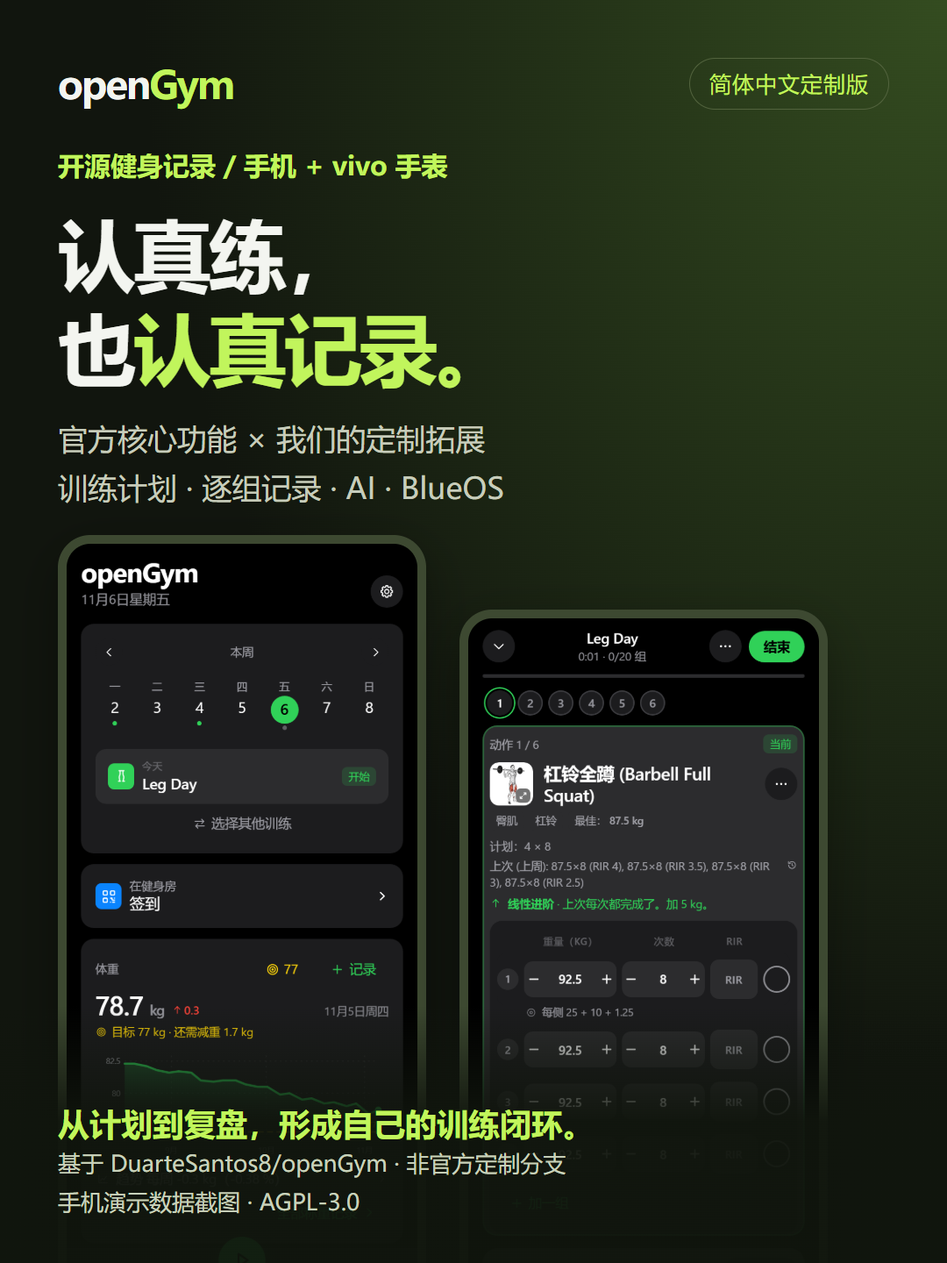
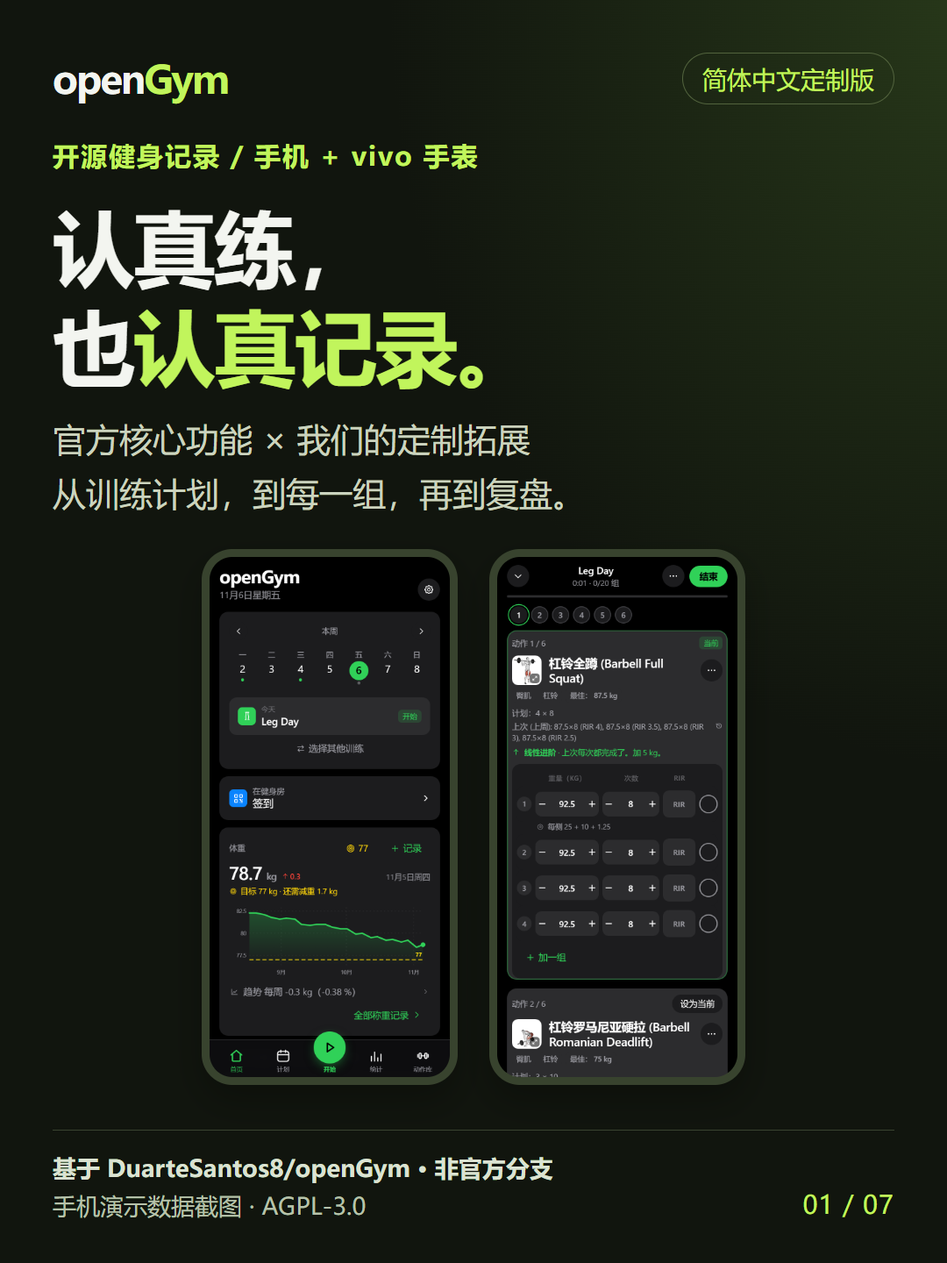
docs: replace long posters with seven mobile-readable short cards [skip ci]

Changed region(s): [[0.0611, 0.0312, 0.8861, 0.9688], [0.7333, 0.0312, 0.9167, 0.0938], [0.8556, 0.9375, 0.9472, 0.9688]]

diff --git a/docs/showcase/index.html b/docs/showcase/index.html
@@ -1,85 +1,118 @@
 <!doctype html>
 <html lang="zh-CN">
 <head>
-<meta charset="utf-8">
-<meta name="viewport" content="width=device-width, initial-scale=1">
-<title>openGym · 官方核心功能与我们的定制拓展</title>
+<meta charset="utf-8"><meta name="viewport" content="width=device-width, initial-scale=1">
+<title>openGym · 七张手机阅读短图</title>
 <style>
-*{box-sizing:border-box} :root{color-scheme:dark;--lime:#c1f55c;--ink:#f3f5f0;--muted:#b1b8ab;--line:#32382b;--base:#11150e}
-html,body{margin:0;background:#080b07;color:var(--ink);font-family:"Microsoft YaHei","PingFang SC","Noto Sans CJK SC",sans-serif}body{overflow-x:hidden}button,a{-webkit-tap-highlight-color:transparent}
-.canvas{width:1080px;margin:auto;background:var(--base)}.panel{height:2640px;padding:64px;position:relative;overflow:hidden;background:radial-gradient(ellipse at 105% 0%,#28391a 0,transparent 38%),var(--base)}.panel.custom{background:radial-gradient(ellipse at 0 35%,#23341b 0,transparent 40%),#11150e;border-top:2px solid #4a5938}
-.topline{display:flex;align-items:center;justify-content:space-between;font-size:28px;color:var(--muted);letter-spacing:1px}.brand{font-size:44px;font-weight:800;color:var(--ink);letter-spacing:-2px}.brand b{color:var(--lime)}.tag{border:1px solid #52633d;border-radius:40px;padding:12px 22px;font-size:25px;color:var(--lime)}
-.eyebrow{display:flex;align-items:center;gap:16px;margin-top:54px;color:var(--lime);font-size:30px;font-weight:700}.num{display:inline-grid;place-items:center;background:var(--lime);color:#18230d;font-size:28px;width:52px;height:42px;border-radius:10px}
-h1,h2,h3,p{margin:0}h1,h2{font-size:84px;line-height:1.2;letter-spacing:-3px;margin:28px 0 24px;font-weight:800}h1 em,h2 em{font-style:normal;color:var(--lime)}.intro{font-size:34px;line-height:1.65;color:#c7cdbc}.screens{display:flex;gap:40px;margin:42px 0 32px;justify-content:center}.shot{margin:0;width:424px;flex:none}.phone{padding:10px;background:#333b2b;border-radius:39px;box-shadow:0 22px 64px #0005}.phone img{width:100%;height:auto;display:block;border-radius:29px}.shot figcaption{text-align:center;font-size:29px;line-height:1.6;margin-top:19px;font-weight:600}.shot figcaption span{font-size:24px;color:var(--muted);font-weight:400}.feature-grid{display:grid;grid-template-columns:1fr 1fr;gap:0 36px;margin-top:38px}.feature{padding:24px 0;border-top:1px solid #3a4430}.feature h3{font-size:35px;line-height:1.4;margin-bottom:10px;font-weight:700}.feature h3:before{content:"";display:inline-block;width:10px;height:10px;background:var(--lime);border-radius:50%;margin-right:14px;vertical-align:middle}.feature p{font-size:29px;line-height:1.7;color:var(--muted)}
-.bottom{position:absolute;bottom:52px;left:64px;right:64px;border-top:1px solid #3a4430;padding-top:25px;display:flex;justify-content:space-between;gap:32px;align-items:end;color:var(--muted);font-size:23px;line-height:1.65}.bottom .page{font-size:26px;color:var(--lime);white-space:nowrap;letter-spacing:2px}.bottom strong{font-weight:600;color:#d9dfd1}
-.custom .eyebrow{margin-top:45px}.custom h2{font-size:78px;margin:25px 0 21px}.custom .intro{font-size:32px}.card{background:#1e2618;border:1px solid #3c4c2c;border-radius:30px;padding:32px;margin-top:32px}.card-title{font-size:38px;line-height:1.4;font-weight:700}.card-title .label{font-size:24px;display:inline-block;color:var(--lime);background:#303e22;border-radius:9px;padding:5px 12px;margin-right:14px;vertical-align:4px}.example{margin-top:23px;border-left:4px solid var(--lime);padding:9px 0 9px 22px;font-size:34px;line-height:1.65;color:#f1f4eb}.flow{display:flex;align-items:center;justify-content:space-between;margin:27px 0 20px;font-size:29px;color:var(--lime);font-weight:700}.flow span{padding:12px 22px;border-radius:13px;background:#303e22}.flow i{font-style:normal;color:#9cac85;font-size:28px}.safe{font-size:27px;color:#c3ccb8;line-height:1.65}.safe b{color:var(--ink)}
-.watch-title{display:flex;align-items:center;justify-content:space-between;gap:15px}.smalltag{font-size:23px;color:#bbc9a6;border:1px solid #556447;border-radius:20px;padding:7px 15px;white-space:nowrap}.watch-intro{font-size:29px;line-height:1.7;color:var(--muted);margin-top:12px}.watches{display:flex;gap:36px;justify-content:center;margin:23px 0 20px}.watch{margin:0;width:354px}.watch-frame{background:#030403;border:9px solid #4a5044;border-radius:44px;padding:5px;position:relative}.watch-frame:after{content:"";position:absolute;right:-17px;top:104px;width:9px;height:42px;border-radius:0 5px 5px 0;background:#78816d}.watch img{width:100%;display:block;border-radius:30px}.watch figcaption{text-align:center;font-size:25px;color:#c5ceba;margin-top:14px;line-height:1.5}.watch-bits{display:grid;grid-template-columns:1fr 1fr;gap:14px 30px;font-size:28px;line-height:1.5;color:#dce4d2}.watch-bits span:before{content:"+";color:var(--lime);font-size:31px;margin-right:13px}.preview-note{font-size:23px;color:#aebba0;margin-top:21px;line-height:1.6}
-.extras{display:grid;grid-template-columns:1fr 1fr;gap:28px;margin-top:30px}.extra{border-top:2px solid #647b44;padding-top:20px}.extra h3{font-size:34px;margin-bottom:11px}.extra p{font-size:28px;line-height:1.7;color:var(--muted)}.repo{margin-top:33px;background:var(--lime);border-radius:20px;padding:21px 27px;color:#1c2b0c;display:flex;align-items:center;justify-content:space-between}.repo strong{font-size:32px;display:block}.repo span{font-size:24px;display:block;margin-top:7px}.repo .arrow{font-size:46px;line-height:1;margin:0 0 0 20px}
-.cover{width:1080px;height:1440px;padding:66px;background:radial-gradient(ellipse at top right,#344c20 0,transparent 60%),#11150e;overflow:hidden;position:relative}.cover .eyebrow{margin-top:43px}.cover h2{font-size:89px;margin:28px 0 22px}.cover .intro{font-size:34px}.cover-shots{position:absolute;top:510px;left:66px;right:66px;display:flex;align-items:start;gap:38px}.cover-shot{width:420px;border-radius:37px;background:#3d4931;padding:10px;box-shadow:0 20px 55px #0005}.cover-shot img{width:100%;border-radius:27px;display:block}.cover-shot:nth-child(2){margin-top:85px}.cover-bottom{position:absolute;bottom:0;left:0;right:0;background:linear-gradient(transparent,#10150df2 45%);padding:110px 66px 48px;display:flex;justify-content:space-between;align-items:end}.cover-bottom p{font-size:26px;line-height:1.7;color:#c8d2bc}.cover-bottom strong{font-size:36px;color:var(--lime)}
-.official .feature p{font-size:32px}.extra p{font-size:30px}.watch img,.cover-shot img{height:auto}.cover-shots{top:610px}
-.toolbar{max-width:1080px;margin:0 auto;padding:22px;font-size:17px;line-height:1.8;color:#becab0}.toolbar a{color:#c1f55c;text-underline-offset:4px}.toolbar a:focus-visible{outline:2px solid var(--lime);outline-offset:4px}
-@media(max-width:1079px){.canvas,.cover{zoom:calc(100vw / 1080px)}}
-@media print{.toolbar{display:none}.panel{break-after:page}.canvas,.cover{zoom:1}}
+*{box-sizing:border-box} :root{color-scheme:dark;--lime:#c1f55c;--ink:#f3f5f0;--muted:#bac4af;--base:#11150e}
+html,body{margin:0;background:#080b07;color:var(--ink);font-family:"Microsoft YaHei","PingFang SC","Noto Sans CJK SC",sans-serif}body{overflow-x:hidden}h1,h2,h3,p,figure{margin:0}a{color:var(--lime)}
+.toolbar{padding:22px;text-align:center;font-size:16px;line-height:1.8}.toolbar a{margin:0 8px}.canvas{width:1080px;margin:auto}.panel{width:1080px;height:1440px;padding:60px;position:relative;overflow:hidden;background:radial-gradient(ellipse at 105% 0,#28391a 0,transparent 43%),var(--base);margin-bottom:32px}.panel.custom{background:radial-gradient(ellipse at 0 35%,#23341b 0,transparent 48%),var(--base)}
+.topline{display:flex;align-items:center;justify-content:space-between;gap:20px}.brand{font-size:44px;font-weight:800;letter-spacing:-2px}.brand b,em{color:var(--lime);font-style:normal}.tag{font-size:28px;color:var(--lime);border:1px solid #52633d;border-radius:40px;padding:10px 22px}.eyebrow{color:var(--lime);font-size:30px;font-weight:700;margin-top:32px;letter-spacing:2px}h1,h2{font-size:72px;line-height:1.2;letter-spacing:-2px;margin:16px 0 18px}h3{font-size:42px;line-height:1.4}.intro{font-size:38px;line-height:1.65;color:#cbd4bf}.body{margin-top:34px}.bottom{position:absolute;left:60px;right:60px;bottom:44px;display:flex;justify-content:space-between;gap:16px;align-items:end;border-top:1px solid #3a4430;padding-top:21px;font-size:27px;line-height:1.6;color:#b7c2ab}.bottom strong{font-weight:600;color:#dbe3d2}.page{font-size:29px;color:var(--lime);white-space:nowrap;letter-spacing:1px}.content{position:relative}
+.phone{padding:9px;border-radius:35px;background:#38432e;box-shadow:0 18px 40px #0004}.phone img{display:block;width:100%;height:auto;border-radius:26px}.device-label{font-size:28px;color:var(--muted);text-align:center;margin-top:14px;line-height:1.5}.two-col{display:grid;grid-template-columns:1fr 340px;gap:42px;align-items:center}.bullet{margin-bottom:38px}.bullet h3{margin-bottom:12px}.bullet h3:before{content:"";display:inline-block;width:10px;height:10px;background:var(--lime);border-radius:50%;margin-right:14px;vertical-align:middle}.bullet p{font-size:36px;line-height:1.7;color:var(--muted)}
+.screens{display:flex;justify-content:center;gap:36px;margin-top:32px}.shot{width:346px}.pill-row{display:flex;gap:18px;margin-top:30px}.pill{font-size:29px;color:var(--lime);padding:12px 20px;background:#2c3920;border-radius:12px}.cards{display:grid;gap:24px;margin-top:32px}.card{border:1px solid #415333;border-radius:26px;padding:24px 30px;background:#1c2517}.card h3{color:var(--ink);margin-bottom:12px}.card p{font-size:36px;line-height:1.55;color:var(--muted)}.card .label{font-size:27px;color:var(--lime);margin-bottom:12px;letter-spacing:1px}.note{font-size:29px;line-height:1.65;color:#b7c4a8;margin-top:23px}
+.cover h1{font-size:94px;margin-top:28px}.cover .eyebrow{margin-top:38px}.cover .intro{font-size:38px}.cover-shots{display:flex;gap:36px;justify-content:center;margin-top:32px}.cover-shots .phone{width:292px}.cover-shots img{height:auto}.cover .body{margin-top:0}.cover .bottom{background:var(--base)}
+.quote{border-left:5px solid var(--lime);padding:16px 28px;background:#1d2816;border-radius:0 22px 22px 0;font-size:43px;line-height:1.65}.steps{display:grid;gap:18px;margin-top:27px}.step{display:flex;gap:24px;align-items:center;background:#1d2816;border:1px solid #405331;border-radius:22px;padding:18px 28px}.step-num{display:grid;place-items:center;border-radius:50%;background:var(--lime);color:#18230d;font-size:33px;width:58px;height:58px;flex:none;font-weight:800}.step h3{font-size:38px;margin-bottom:6px}.step p{font-size:32px;line-height:1.5;color:var(--muted)}
+.watches{display:flex;gap:40px;justify-content:center;margin:24px 0 24px}.watch{width:330px}.watch-frame{background:#030403;border:9px solid #4a5044;border-radius:43px;padding:5px;position:relative}.watch-frame:after{content:"";position:absolute;right:-17px;top:104px;width:9px;height:42px;border-radius:0 5px 5px 0;background:#78816d}.watch img{width:100%;height:auto;display:block;border-radius:28px}.watch figcaption{font-size:29px;text-align:center;color:var(--muted);margin-top:14px}.watch-bits{display:grid;grid-template-columns:1fr 1fr;gap:20px 24px;font-size:35px;line-height:1.6}.watch-bits span:before{content:"+";color:var(--lime);font-size:38px;margin-right:12px}.repo{margin-top:34px;border-top:1px solid #405331;padding-top:24px}.repo strong{display:block;font-size:37px;margin-bottom:12px}.repo span{font-size:29px;color:var(--lime)}
+@media(max-width:1080px){.canvas{width:100%}.panel{zoom:calc(100vw / 1080px)}.toolbar{font-size:14px;padding:15px}}
 </style>
 </head>
 <body>
-<nav class="toolbar" aria-label="分享图片下载">查看：<a href="../../assets/showcase/opengym-features-long.png">完整长图</a> · <a href="../../assets/showcase/opengym-official-features.png">图 01</a> · <a href="../../assets/showcase/opengym-custom-features.png">图 02</a> · <a href="../../assets/showcase/opengym-cover.png">封面</a> · <a href="../../README.md">项目说明</a></nav>
-<main class="canvas" id="long-poster">
-<section class="panel official" id="official" aria-label="官方核心功能展示">
-  <div class="topline"><div class="brand">open<b>Gym</b></div><span class="tag">开源健身记录 · 简体中文定制版</span></div>
-  <div class="eyebrow"><span class="num">01</span> 官方核心功能 · 定制版保留</div>
-  <h1>一套应用，<br>记录你的<em>训练全程。</em></h1>
-  <p class="intro">计划、逐组记录、动作库与进步统计，<br>从开练到复盘，让每一次努力有迹可循。</p>
-  <div class="screens">
-    <figure class="shot"><div class="phone"><img src="../../assets/showcase/app-home.png" width="780" height="1688" alt="应用中文演示截图：今日训练安排和体重趋势"></div><figcaption>今天练什么，一眼看清<br><span>今日计划 / 训练日程 / 体重趋势</span></figcaption></figure>
-    <figure class="shot"><div class="phone"><img src="../../assets/showcase/app-workout.png" width="780" height="1688" alt="应用中文演示截图：每一组的重量、次数和努力程度"></div><figcaption>每一组，都认真记录<br><span>重量次数 / 上次表现 / RPE · RIR</span></figcaption></figure>
-  </div>
-  <div class="feature-grid">
-    <article class="feature"><h3>灵活安排训练</h3><p>按周或轮换编排计划，<br>组数、次数与休息可调。</p></article>
-    <article class="feature"><h3>跟进每一组</h3><p>逐组记录、休息倒计时，<br>对照上次表现继续进步。</p></article>
-    <article class="feature"><h3>动作库与手机示范</h3><p>按肌群、器械查找动作，<br>查看动作示范与要领。</p></article>
-    <article class="feature"><h3>看见长期变化</h3><p>日历、趋势与阶段报告，<br>回顾训练量和个人纪录。</p></article>
-    <article class="feature"><h3>AI 教练辅助</h3><p>训练问答、复盘与计划建议，<br>按需配置自己的 AI 服务。</p></article>
-    <article class="feature"><h3>数据由自己掌握</h3><p>本地优先、备份与导出，<br>可选自托管和多端同步。</p></article>
-  </div>
-  <footer class="bottom"><div><strong>源于 DuarteSantos8/openGym 的开源基础</strong><br>手机为中文演示数据截图；AI、在线同步需相应配置。</div><div class="page">01 / 02</div></footer>
+<nav class="toolbar" aria-label="七张短图导航">七张独立短图 · 每张 1080×1440 · 不导出拼接长图<br><a href="#cover">01 封面</a><a href="#official-training">02 训练</a><a href="#official-progress">03 复盘</a><a href="#official-tools">04 工具</a><a href="#custom-coach">05 AI 拓展</a><a href="#custom-watch">06 手表拓展</a><a href="#custom-ecosystem">07 中文与更新</a></nav>
+<main class="canvas">
+<section class="panel cover" id="cover" data-file="opengym-cover.png" aria-label="01 封面">
+<div class="content">
+<header class="topline"><div class="brand">open<b>Gym</b></div><span class="tag">简体中文定制版</span></header>
+<div class="eyebrow">开源健身记录 / 手机 + vivo 手表</div>
+<h1>认真练，<br>也<em>认真记录。</em></h1>
+<p class="intro">官方核心功能 × 我们的定制拓展<br>从训练计划，到每一组，再到复盘。</p>
+<div class="cover-shots"><div class="phone"><img src="../../assets/showcase/app-home.png" alt="手机首页中文演示数据截图"></div><div class="phone"><img src="../../assets/showcase/app-workout.png" alt="手机逐组训练中文演示数据截图"></div></div>
+</div>
+<footer class="bottom"><div><strong>基于 DuarteSantos8/openGym · 非官方分支</strong><br>手机演示数据截图 · AGPL-3.0</div><span class="page">01 / 07</span></footer>
 </section>
-<section class="panel custom" id="custom" aria-label="我们的定制拓展展示">
-  <div class="topline"><div class="brand">open<b>Gym</b></div><span class="tag">在开源基础上，继续打磨</span></div>
-  <div class="eyebrow"><span class="num">02</span> 我们基于官方做的定制拓展</div>
-  <h2>不止能记录，<br>还要<em>更顺手。</em></h2>
-  <p class="intro">重点完善 AI 对话改计划、vivo 手表训练，<br>以及中文动作资料和更新体验。</p>
-  <article class="card">
-    <h3 class="card-title"><span class="label">AI 对话拓展</span>一句话，走到可确认的调整</h3>
-    <p class="example">“我想把练背除了第一个动作以外，<br>其他改为三组。”</p>
-    <div class="flow"><span>说出需求</span><i>→</i><span>查看变更</span><i>→</i><span>明确确认</span></div>
-    <p class="safe">不必只从复盘入口改计划。<b>确认后改后续模板，</b><br>不回写本场和历史；范围不明确时先澄清。</p>
-  </article>
-  <article class="card">
-    <div class="watch-title"><h3 class="card-title"><span class="label">BlueOS 拓展</span>把训练带到 vivo 手表</h3><span class="smalltag">GT1 · 390×450</span></div>
-    <p class="watch-intro">参考 Apple Watch 的选组与字段编辑，<br>结合 Wear OS「点击动作名切换」的入口逻辑。</p>
-    <div class="watches">
-      <figure class="watch"><div class="watch-frame"><img src="../../assets/showcase/watch-current-preview.png" width="390" height="450" alt="GT1 当前组代码生成预览，非真机截图"></div><figcaption>圆点选组 / 查看上次表现</figcaption></figure>
-      <figure class="watch"><div class="watch-frame"><img src="../../assets/showcase/watch-keyboard-preview.png" width="390" height="450" alt="GT1 精确键盘代码生成预览，非真机截图"></div><figcaption>表冠调值 / 精确数字录入</figcaption></figure>
-    </div>
-    <div class="watch-bits"><span>点击动作名切换</span><span>选字段后表冠调值</span><span>休息与 RPE / RIR</span><span>结束确认与总结</span></div>
-    <p class="preview-note">手表为代码生成预览，非真机；固件交互仍需实机验收。<br>当前不含手表动作演示，不承诺强制唤起后台手机。</p>
-  </article>
-  <div class="extras">
-    <article class="extra"><h3>中文动作资料完善</h3><p>在官方中文基础上，<br>补充、校正名称与要领。</p></article>
-    <article class="extra"><h3>更新与发布闭环</h3><p>本仓库独立更新源，<br>手机、手表包与校验同发。</p></article>
-  </div>
-  <div class="repo"><div><strong>开源可查 · 下载与源码</strong><span>github.com/daoshi818-crypto/openGym</span></div><span class="arrow">↗</span></div>
-  <footer class="bottom"><div><strong>非官方定制分支 · AGPL-3.0 · 保留上游致谢</strong><br>功能对照基线：官方 v1.4.4；定制快照：手机 1.6.13 / 手表 0.6.18。</div><div class="page">02 / 02</div></footer>
+<section class="panel" id="official-training" data-file="opengym-02-official-training.png" aria-label="02 官方计划与记录">
+<div class="content">
+<header class="topline"><div class="brand">open<b>Gym</b></div><span class="tag">官方核心功能</span></header>
+<div class="eyebrow">01 / 计划与记录</div>
+<h2>今天练什么，<br><em>每一组都清楚。</em></h2>
+<p class="intro">先安排，再开练；把过程留下来。</p>
+<div class="body two-col"><div>
+<article class="bullet"><h3>训练计划</h3><p>安排训练日和动作，<br>设定组数、次数与休息。</p></article>
+<article class="bullet"><h3>逐组记录</h3><p>记录重量、次数，<br>按自己的节奏完成训练。</p></article>
+<article class="bullet"><h3>回看历史</h3><p>对照过去的训练记录，<br>为下一次调整提供参考。</p></article>
+</div><figure><div class="phone"><img src="../../assets/showcase/app-workout.png" alt="逐组训练中文演示数据截图"></div><figcaption class="device-label">逐组训练 · 演示数据</figcaption></figure></div>
+</div>
+<footer class="bottom"><div><strong>能力源于官方项目，本分支保留或适配。</strong><br>手机为浏览器演示截图，非真机拍摄。</div><span class="page">02 / 07</span></footer>
+</section>
+<section class="panel" id="official-progress" data-file="opengym-03-official-progress.png" aria-label="03 官方统计与复盘">
+<div class="content">
+<header class="topline"><div class="brand">open<b>Gym</b></div><span class="tag">官方核心功能</span></header>
+<div class="eyebrow">02 / 统计与复盘</div>
+<h2>不只记录今天，<br><em>也看见长期变化。</em></h2>
+<p class="intro">训练日历看坚持，趋势与报告做复盘。</p>
+<div class="body two-col"><div>
+<article class="bullet"><h3>训练日历</h3><p>看训练安排与频率，<br>回顾自己的坚持。</p></article>
+<article class="bullet"><h3>趋势统计</h3><p>对比一段时间的数据，<br>观察训练变化。</p></article>
+<article class="bullet"><h3>训练报告</h3><p>从趋势页进入报告，<br>进一步复盘与导出。</p></article>
+</div><figure><div class="phone"><img src="../../assets/showcase/app-trends.png" alt="趋势统计中文演示数据截图"></div><figcaption class="device-label">趋势统计 · 演示数据</figcaption></figure></div>
+</div>
+<footer class="bottom"><div><strong>统计、报告均为官方已有能力。</strong><br>截图使用演示数据，不代表实际训练效果。</div><span class="page">03 / 07</span></footer>
+</section>
+<section class="panel" id="official-tools" data-file="opengym-04-official-tools.png" aria-label="04 官方辅助工具">
+<div class="content">
+<header class="topline"><div class="brand">open<b>Gym</b></div><span class="tag">官方核心功能</span></header>
+<div class="eyebrow">03 / 辅助工具与数据自主</div>
+<h2>训练之外，<br><em>也有趁手的工具。</em></h2>
+<p class="intro">不是只有一张训练记录表。</p>
+<div class="cards">
+<article class="card"><h3>动作库与手机端示范</h3><p>查看动作资料与示范内容，<br>为训练安排提供参考。</p></article>
+<article class="card"><h3>AI 辅助提问与复盘</h3><p>官方已有 AI 教练；<br>使用范围取决于配置与部署。</p></article>
+<article class="card"><h3>开源、导出、可自托管</h3><p>源码可查，按需管理数据，<br>选择适合自己的使用方式。</p></article>
+</div>
+</div>
+<footer class="bottom"><div><strong>以上为官方能力，不宣传成定制原创。</strong><br>手机动作示范 ≠ 手表动作演示。</div><span class="page">04 / 07</span></footer>
+</section>
+<section class="panel custom" id="custom-coach" data-file="opengym-05-custom-coach.png" aria-label="05 定制AI对话改计划">
+<div class="content">
+<header class="topline"><div class="brand">open<b>Gym</b></div><span class="tag">我们的定制拓展</span></header>
+<div class="eyebrow">01 / AI 对话 → 计划修改</div>
+<h2>不只聊建议，<br><em>还能确认改计划。</em></h2>
+<p class="intro">把日常提问，接到可确认的修改流程。</p>
+<div class="body quote">“我想把练背除了第一个动作以外，<br>其他改为三组。”</div>
+<div class="steps">
+<article class="step"><span class="step-num">1</span><div><h3>用自然语言提出需求</h3><p>说明训练日、动作范围和调整目标。</p></div></article>
+<article class="step"><span class="step-num">2</span><div><h3>核对结构化修改方案</h3><p>检查动作匹配、修改前后值与合法性。</p></div></article>
+<article class="step"><span class="step-num">3</span><div><h3>明确确认，再应用计划</h3><p>不是只给一段文字，也不静默修改。</p></div></article>
+</div>
+<p class="note">拓展普通聊天到确认应用；AI 教练为官方已有能力。</p>
+</div>
+<footer class="bottom"><div><strong>此处是操作流程示意，不是模型回复截图。</strong><br>实际方案须通过校验；AI 需对应配置与服务。</div><span class="page">05 / 07</span></footer>
+</section>
+<section class="panel custom" id="custom-watch" data-file="opengym-06-custom-watch.png" aria-label="06 定制vivo手表训练">
+<div class="content">
+<header class="topline"><div class="brand">open<b>Gym</b></div><span class="tag">我们的定制拓展</span></header>
+<div class="eyebrow">02 / vivo · BlueOS</div>
+<h2>训练记录，<br><em>延伸到手腕上。</em></h2>
+<p class="intro">面向 GT1 方屏 390×450，<br>重整训练页面与输入交互。</p>
+<div class="watches"><figure class="watch"><div class="watch-frame"><img src="../../assets/showcase/watch-current-preview.png" alt="当前组代码生成浏览器预览，非真机"></div><figcaption>当前组 · 代码预览</figcaption></figure><figure class="watch"><div class="watch-frame"><img src="../../assets/showcase/watch-keyboard-preview.png" alt="数字录入代码生成浏览器预览，非真机"></div><figcaption>数字录入 · 代码预览</figcaption></figure></div>
+<div class="watch-bits"><span>点动作名切换动作</span><span>圆点选择不同组</span><span>选字段后表冠调节</span><span>数字键盘精确录入</span></div>
+<p class="note">官方已有 Apple Watch / Wear OS；<br>本分支重点拓展 vivo / BlueOS 训练端。</p>
+</div>
+<footer class="bottom"><div><strong>手表为代码生成预览，非 GT1 真机截图。</strong><br>当前无动作演示，不承诺强制唤起后台手机。</div><span class="page">06 / 07</span></footer>
+</section>
+<section class="panel custom" id="custom-ecosystem" data-file="opengym-07-custom-ecosystem.png" aria-label="07 定制中文资料与发布更新">
+<div class="content">
+<header class="topline"><div class="brand">open<b>Gym</b></div><span class="tag">我们的定制拓展</span></header>
+<div class="eyebrow">03 / 中文体验与持续更新</div>
+<h2>不止改界面，<br><em>也把细节补齐。</em></h2>
+<p class="intro">让已有能力更贴近日常使用。</p>
+<div class="cards">
+<article class="card"><h3>补充与校正动作资料</h3><p>在官方已有中文支持之上，<br>完善动作名称、描述和训练要领。<br>不是把中文支持当作本分支首创。</p></article>
+<article class="card"><h3>手机、手表包与更新入口</h3><p>GitHub 构建与发布、应用更新 JSON，<br>手机和手表安装包、校验文件同发。<br>下载有出处，版本可核对。</p></article>
+</div>
+<div class="repo"><strong>源码与下载 · 非官方定制分支</strong><span>github.com/daoshi818-crypto/openGym</span></div>
+</div>
+<footer class="bottom"><div><strong>感谢上游 openGym · 源码 AGPL-3.0</strong><br>对照：官方 v1.4.4；快照：手机 1.6.13 / 手表 0.6.18。</div><span class="page">07 / 07</span></footer>
 </section>
 </main>
-<section class="cover" id="cover" aria-label="社交媒体封面">
-  <div class="topline"><div class="brand">open<b>Gym</b></div><span class="tag">简体中文定制版</span></div>
-  <div class="eyebrow">开源健身记录 / 手机 + vivo 手表</div>
-  <h2>认真练，<br>也<em>认真记录。</em></h2>
-  <p class="intro">官方核心功能 × 我们的定制拓展<br>训练计划 · 逐组记录 · AI · BlueOS</p>
-  <div class="cover-shots"><div class="cover-shot"><img src="../../assets/showcase/app-home.png" width="780" height="1688" alt="手机首页中文演示截图"></div><div class="cover-shot"><img src="../../assets/showcase/app-workout.png" width="780" height="1688" alt="手机逐组训练中文演示截图"></div></div>
-  <div class="cover-bottom"><div><strong>从计划到复盘，形成自己的训练闭环。</strong><p>基于 DuarteSantos8/openGym · 非官方定制分支<br>手机演示数据截图 · AGPL-3.0</p></div></div>
-</section>
 </body>
 </html>

diff --git a/docs/showcase/README.zh-CN.md b/docs/showcase/README.zh-CN.md
@@ -1,15 +1,20 @@
 # openGym 手机阅读与社交展示素材
 
-## 导出图片
+## 导出图片：七张独立短图
 
-| 图片 | 尺寸 | 用途 |
+**全部 1080×1440（3:4），不做拼接长图。** 推荐按 01→07 顺序发布；02–04 是官方主要功能，05–07 是我们的定制拓展。每张只围绕一个主题，正文使用大字号，适合手机左右翻图阅读。
+
+| 顺序 | 图片 | 主题 |
 | --- | --- | --- |
-| [完整功能长图](../../assets/showcase/opengym-features-long.png) | 1080×5280 | 两部分连贯阅读，支持长图的平台 |
-| [01 官方核心功能](../../assets/showcase/opengym-official-features.png) | 1080×2640 | 分图第一张 |
-| [02 我们的定制拓展](../../assets/showcase/opengym-custom-features.png) | 1080×2640 | 分图第二张 |
-| [封面](../../assets/showcase/opengym-cover.png) | 1080×1440 | 3:4 社交媒体封面 |
+| 01 | [封面](../../assets/showcase/opengym-cover.png) | 认真练，也认真记录 |
+| 02 | [官方：计划与记录](../../assets/showcase/opengym-02-official-training.png) | 训练计划、逐组记录、历史 |
+| 03 | [官方：统计与复盘](../../assets/showcase/opengym-03-official-progress.png) | 日历、趋势、报告 |
+| 04 | [官方：辅助工具](../../assets/showcase/opengym-04-official-tools.png) | 动作库、AI、数据自主 |
+| 05 | [定制：AI 对话改计划](../../assets/showcase/opengym-05-custom-coach.png) | 自然语言需求、校验、确认应用 |
+| 06 | [定制：vivo 手表训练](../../assets/showcase/opengym-06-custom-watch.png) | BlueOS / GT1、切动作、选组、录入 |
+| 07 | [定制：中文与更新](../../assets/showcase/opengym-07-custom-ecosystem.png) | 中文内容增补、独立发布更新 |
 
-推荐发布顺序：封面 → 官方核心功能 → 定制拓展。两张功能分图是长图的两个完整部分，没有另加功能。正文大字号、单向竖读，无需横向拖动查看表格。
+此前的 5280px 长图和两张 2640px 分图已从当前展示中移除，避免误用旧排版。可以直接保存上述 PNG 使用，无须再截图 HTML 页面。
 
 附加原始素材：[训练日历](../../assets/showcase/app-calendar.png)、[趋势统计](../../assets/showcase/app-trends.png)、[训练报告](../../assets/showcase/app-report.png)、[手表总结代码预览](../../assets/showcase/watch-summary-preview.png)。这些也分别属于浏览器演示截图或代码预览，不是真机截图。
 
@@ -30,8 +35,8 @@
 源稿是 [index.html](index.html)，只用本地图片、系统字体和 CSS，无外部字体、CDN脚本或生成式图片依赖。
 
 1. 从仓库根目录启动本地静态服务器，例如 `python -m http.server 8768 --bind 127.0.0.1`。
-2. 打开 `http://127.0.0.1:8768/docs/showcase/index.html`。手机宽度按1080px画布等比显示。
-3. 按 [render.cjs](render.cjs) 的说明配置 Playwright，然后运行导出；导出脚本同时检查字体、图片、内容边界与产物尺寸。
+2. 打开 `http://127.0.0.1:8768/docs/showcase/index.html`。手机宽度按1080px画布等比显示；各张保留独立的3:4比例。
+3. 按 [render.cjs](render.cjs) 的说明配置 Playwright，然后运行导出；导出脚本仅逐张截图，不截整页；同时检查字体、图片比例、正文与页脚边界、文字溢出、七张产物尺寸，以及360/390/430/768px宽度适配。
 
 ```bash
 # 标准 Node 环境，先在仓库外部的工具目录安装 playwright，并安装对应浏览器。

diff --git a/README.md b/README.md
@@ -13,7 +13,7 @@
 [![构建](https://img.shields.io/github/actions/workflow/status/daoshi818-crypto/openGym/build.yml?branch=main&style=flat-square&label=手机构建)](https://github.com/daoshi818-crypto/openGym/actions/workflows/build.yml)
 [![许可证](https://img.shields.io/badge/license-AGPL--3.0-a3e635?style=flat-square)](LICENSE)
 
-[下载安装](https://github.com/daoshi818-crypto/openGym/releases/latest) · [功能展示长图](assets/showcase/opengym-features-long.png) · [官方原项目](https://github.com/DuarteSantos8/openGym) · [自托管文档](docs/SELF_HOSTING.md)
+[下载安装](https://github.com/daoshi818-crypto/openGym/releases/latest) · [七张功能短图](docs/showcase/README.zh-CN.md) · [官方原项目](https://github.com/DuarteSantos8/openGym) · [自托管文档](docs/SELF_HOSTING.md)
 
 <img src="assets/showcase/opengym-cover.png" width="540" alt="openGym 中文定制版：官方核心功能与我们的定制拓展，手机应用中文演示截图">
 
@@ -119,13 +119,19 @@ docker compose up -d --build
 
 ## 手机阅读与社交分享图片
 
-- [完整功能长图（1080px 宽）](assets/showcase/opengym-features-long.png)
-- [分图 01：官方核心功能](assets/showcase/opengym-official-features.png)
-- [分图 02：我们的定制拓展](assets/showcase/opengym-custom-features.png)
-- [封面图](assets/showcase/opengym-cover.png)
-- [可编辑 HTML 与图片制作说明](docs/showcase/README.zh-CN.md)
+采用 **7 张独立短图，全部为 1080×1440（3:4）**，一张一个主题，不再使用拼接长图。按下列顺序发布即可：
 
-手机图为应用演示数据截图；手表图为代码生成预览。文字流程图只解释操作，不伪装成实际模型回复。发布图文时建议保留功能归属和预览标记。
+| 顺序 | 图片 | 归属 |
+| --- | --- | --- |
+| 01 | [封面：认真练，也认真记录](assets/showcase/opengym-cover.png) | 总览 |
+| 02 | [计划与逐组记录](assets/showcase/opengym-02-official-training.png) | 官方核心功能 |
+| 03 | [统计与复盘](assets/showcase/opengym-03-official-progress.png) | 官方核心功能 |
+| 04 | [动作库、AI 与数据自主](assets/showcase/opengym-04-official-tools.png) | 官方核心功能 |
+| 05 | [AI 对话到确认改计划](assets/showcase/opengym-05-custom-coach.png) | 我们的定制拓展 |
+| 06 | [vivo / BlueOS 手表训练](assets/showcase/opengym-06-custom-watch.png) | 我们的定制拓展 |
+| 07 | [中文资料与发布更新](assets/showcase/opengym-07-custom-ecosystem.png) | 我们的定制拓展 |
+
+[可编辑 HTML、制作说明与重导出脚本](docs/showcase/README.zh-CN.md)。手机图为应用演示数据截图；手表图为代码生成预览，非真机截图。流程图仅解释操作，不伪装成模型回复。发布时请保留功能归属和预览标记。
 
 ## 致谢与许可证
 
